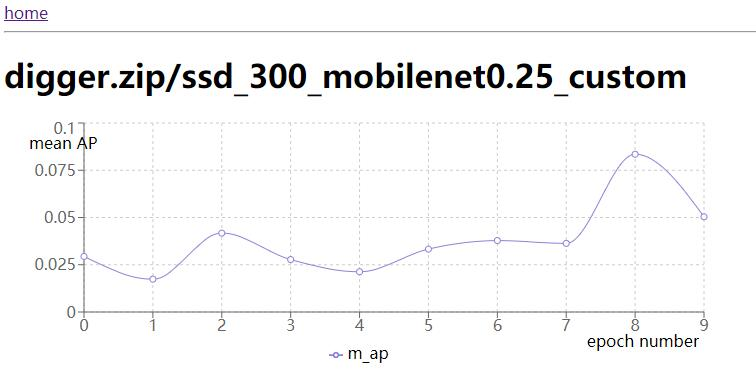
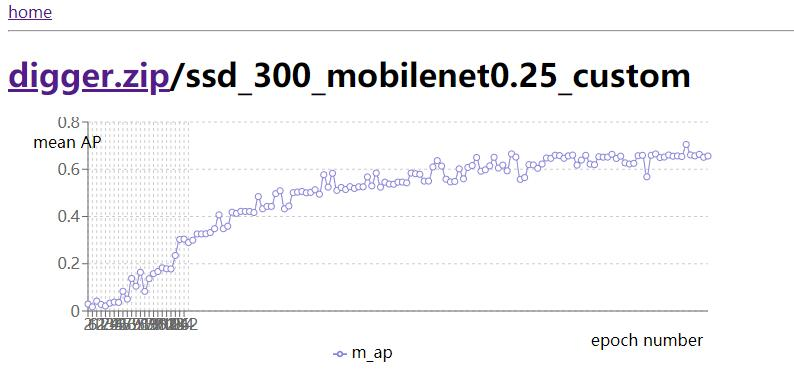
README.md

diff --git a/webapp/pages/epoch/chart.js b/webapp/pages/epoch/chart.js
@@ -22,7 +22,7 @@ View.getInitialProps = async ({ query: { id } }) => {
     const train = (await getModel('train').readOne({ params: { id } })).data
     const model = (await getModel('model').readOne({ params: { id: train.model_id } })).data
     const dataset = (await getModel('dataset').readOne({ params: { id: train.dataset_id } })).data
-    const epochs = (await getModel('epoch').read({ params: { job_id: id } })).data
+    const epochs = (await getModel('epoch').read({ params: { job_id: id, _perPage: Number.MAX_SAFE_INTEGER } })).data
 
     return { train, model, dataset, epochs }
   } catch (e) {

diff --git a/training/tools/generate-runner.js b/training/tools/generate-runner.js
@@ -50,12 +50,6 @@ const Dataset = getModel('dataset')
       `--network ease-training`
     ]
     let cmd = `${model.docker_cmd} --save-prefix=/shared-files/params/${dataset.name}/${model.name}/`
-    if(!cmd.includes('--batch-size')&&process.env.DEFAULT_BATCH_SIZE){
-      cmd+=` --batch-size=${process.env.DEFAULT_BATCH_SIZE}`
-    }
-    if(!cmd.includes('--gpus')&&process.env.DEFAULT_GPUS){
-      cmd+=` --gpus=${process.env.DEFAULT_GPUS}`
-    }
 
     fs.writeFileSync(currentFile,
       `#!/bin/bash

diff --git a/training/train_yolo3.py b/training/train_yolo3.py
@@ -34,7 +34,7 @@ def parse_args():
     parser.add_argument('--data-shape', type=int, default=416,
                         help="Input data shape for evaluation, use 320, 416, 608... " +
                              "Training is with random shapes from (320 to 608).")
-    parser.add_argument('--batch-size', type=int, default=64,
+    parser.add_argument('--batch-size', type=int, default=1,
                         help='Training mini-batch size')
     parser.add_argument('--dataset', type=str, default='custom',
                         help='Training dataset. Now support voc.')

diff --git a/training/train_ssd.py b/training/train_ssd.py
@@ -48,7 +48,7 @@ def parse_args():
                         help="Base network name which serves as feature extraction base.")
     parser.add_argument('--data-shape', type=int, default=300,
                         help="Input data shape, use 300, 512.")
-    parser.add_argument('--batch-size', type=int, default=32,
+    parser.add_argument('--batch-size', type=int, default=1,
                         help='Training mini-batch size')
     parser.add_argument('--dataset', type=str, default='custom',
                         help='Training dataset. Now support voc.')

diff --git a/README.md b/README.md
@@ -20,14 +20,12 @@ docker-compose up -d
 ```
 
 then open http://localhost:3000 (or replace localhost with lan IP) | 打开 http://localhost:3000 或 localhost 更换为局域网 IP
-
-> ![home](./screenshots/home.jpg)
-
-> ![create dataset](./screenshots/create-dataset.jpg)
-
-> ![training](./screenshots/training.jpg)
-
-> ![epoch chart](./screenshots/epoch-chart.jpg)
+|   |
+|---|
+| ![home](./screenshots/home.jpg) |
+| ![create dataset](./screenshots/create-dataset.jpg) |
+| ![training](./screenshots/training.jpg) |
+| ![epoch chart](./screenshots/epoch-chart.jpg) |
 
 ## use docker only | 只使用 docker
 
@@ -37,8 +35,9 @@ prepare your custom dataset and map to `/dataset.zip` and map out where you gene
 docker run -it --rm --gpus all --shm-size=32G -v $(pwd)/parameters:/parameters -v $(pwd)/dataset.zip:/dataset.zip -v $(pwd):/out-classes postor/ease-training train_yolo3.py --gpus=0 --save-prefix=/parameters/
 
 # or cache models and train with more params | 缓存下载的模型以及更多的训练参数
-docker run -it --rm --gpus all --shm-size=32G -v ~/.mxnet:/root/.mxnet -v $(pwd)/parameters:/parameters -v $(pwd)/dataset.zip:/dataset.zip -v $(pwd):/out-classes --shm-size 32G postor/ease-training train_yolo3.py --batch-size=2 --gpus=1,2 --lr=0.0001 --epochs=500 --network=darknet53 --save-prefix=/parameters/'
+docker run -it --rm --gpus all --shm-size=32G -v ~/.mxnet:/root/.mxnet -v $(pwd)/parameters:/parameters -v $(pwd)/dataset.zip:/dataset.zip -v $(pwd):/out-classes --shm-size 32G postor/ease-training train_yolo3.py --batch-size=2 --gpus=1,2 --lr=0.0001 --epochs=500 --network=darknet53 --save-prefix=/parameters/
 ```
+replace `train_yolo3.py --network=darknet53 --data-shape=416` with `train_${detector}.py --network=${network} --data-shape=${dataShape}` as needed, [check supported network && data shape](#supported-network--data-shape--支持的-network--data-shape)
 
 params or logics refer https://gluon-cv.mxnet.io/build/examples_detection/index.html and [training/predict.py](./training/predict.py) | 参数及逻辑参考 https://gluon-cv.mxnet.io/build/examples_detection/index.html 和 [training/predict.py](./training/predict.py)
 
@@ -49,6 +48,8 @@ to predict, you need some sample images, put them into a folder, like `$(pwd)/te
 ```
 docker run -it --rm --gpus all  -v $(pwd)/parameters:/training/parameters -v $(pwd)/test:/test -v $(pwd)/result:/result postor/ease-training --model=yolo3_darknet53 --data-shape=416 --input-folder=/test --output-folder=/result
 ```
+
+replace `--model=yolo3_darknet53 --data-shape=416` with `--model=${detector}_${network} --data-shape=${dataShape}` if needed
 
 ## supported network && data shape | 支持的 network && data shape
 
